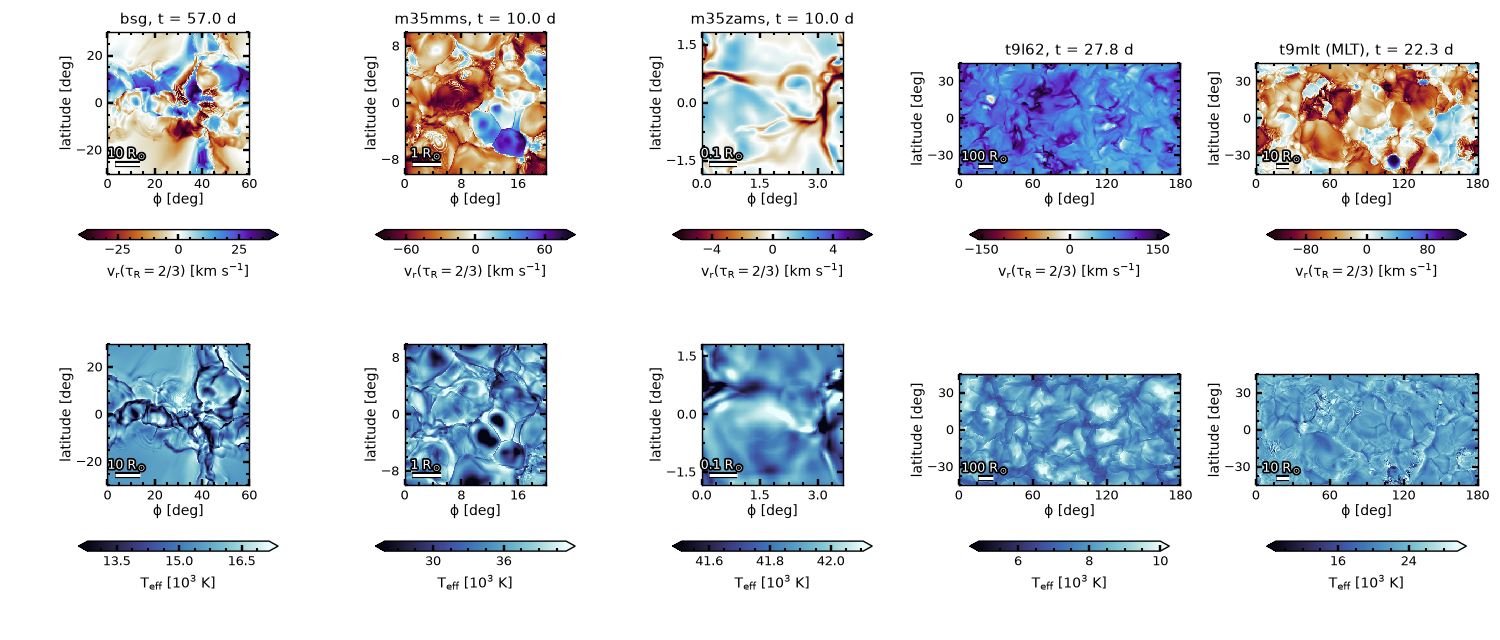
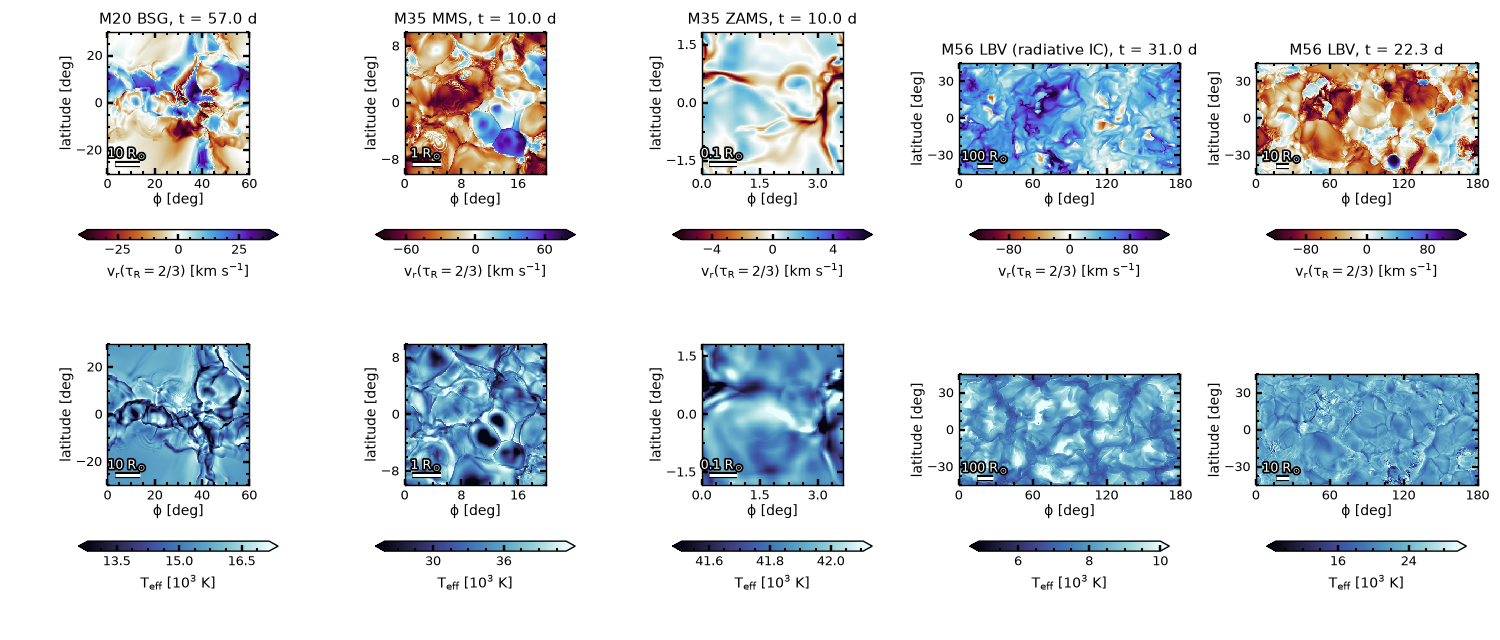
DOCFIG: M56 LBV (radiative IC) final dump (t9l62 finished), new star names in the strip and CAPTIONS (orion 27p/27q)

diff --git a/docs/handover/caltech_results/DOCFIG/mov3d/w3d.py b/docs/handover/caltech_results/DOCFIG/mov3d/w3d.py
@@ -12,16 +12,16 @@ sys.path.insert(0, G + '/rsgE_page/vispy_4de8168d'); import bin_convert as bc; r
 from matplotlib.colors import ListedColormap
 ICE, FUS = (ListedColormap(np.load(D0 + '/lut_%s.npy' % n)) for n in ('ice', 'fusion'))
 RS, DAY = r3.RSUN, 86400.0
-RUNS = dict(bsg=dict(title='Blue supergiant', hydro=G + '/prod_c1_1124/bsg/bin/bsg3d.hydro_w.%05d.bin', rad='vet', var='vet_f1', grid=G + '/prod_c1_1124/bsg/bsg3d.x1grid.txt',
+RUNS = dict(bsg=dict(title='M20 BSG', hydro=G + '/prod_c1_1124/bsg/bin/bsg3d.hydro_w.%05d.bin', rad='vet', var='vet_f1', grid=G + '/prod_c1_1124/bsg/bsg3d.x1grid.txt',
     table=G + '/fresh_prod_1120/bsg/rosseland_mesakap_gs98_x0.70_z0.008.txt', mu=0.62, gamma=5/3., rin=0.0, rview=56.0, az=30, el=30, zoom=1.17))
 TB2 = G + '/fresh_prod_1120/tables/rosseland_mesakap_gs98_x0.70_z0.02.txt'
 def _c(title, d, pre, mu, rin, rview, **k):
     q = dict(title=title, hydro=G + '/' + d + '/bin/' + pre + '.hydro_w.%05d.bin', rad='vet', var='vet_f1', grid=G + '/' + d + '/' + pre + '.x1grid.txt', table=TB2, mu=mu, gamma=5/3., rin=rin, rview=rview, az=30, el=30, zoom=1.0, fit=True, last=None, te=None); q.update(k); return q
 RUNS['bsg'].update(last=114, te=None)
-RUNS['m35mms'] = _c('M35MMS', 'prod_c1_1124/m35mms', 'm35mms', 0.6215, 0.86*9.554e11/6.957e10, 14.2, last=480, note='frames interpolated')
-RUNS['m35zams'] = _c('M35ZAMS', 'prod_c1_1124/m35zams', 'm35zams', 0.6220, 0.93*5.4972e11/6.957e10, 8.0, last=480, note='frames interpolated')
-RUNS['t9l62'] = _c('T9L6.2', 'prod_c4_1124/t9l62', 't9l62', 0.674, 0.42*6.5326e12/6.957e10, 560.0, last=223, te=[4.9, 10.0], amb=0.80, dif=0.30, spec=0.0)
-RUNS['t9mlt'] = _c('T9 with adaptive MLT', 'prod_mlt_1125/t9mlt', 't9l62', 0.674, 0.62*3.9282e12/6.957e10, 64.0, last=178, te=[9.0, 29.5], amb=0.80, dif=0.30, spec=0.0)
+RUNS['m35mms'] = _c('M35 MMS', 'prod_c1_1124/m35mms', 'm35mms', 0.6215, 0.86*9.554e11/6.957e10, 14.2, last=480, note='frames interpolated')
+RUNS['m35zams'] = _c('M35 ZAMS', 'prod_c1_1124/m35zams', 'm35zams', 0.6220, 0.93*5.4972e11/6.957e10, 8.0, last=480, note='frames interpolated')
+RUNS['t9l62'] = _c('M56 LBV (radiative IC)', 'prod_c4_1124/t9l62', 't9l62', 0.674, 0.42*6.5326e12/6.957e10, 560.0, last=249, te=[4.9, 10.0], amb=0.80, dif=0.30, spec=0.0)
+RUNS['t9mlt'] = _c('M56 LBV', 'prod_mlt_1125/t9mlt', 't9l62', 0.674, 0.62*3.9282e12/6.957e10, 64.0, last=178, te=[9.0, 29.5], amb=0.80, dif=0.30, spec=0.0)
 def lastdump(s):                                               # newest dump complete for > 10 min (the run may still be writing)
     c = RUNS[s]
     if c['last'] is not None: return c['last']
@@ -41,10 +41,10 @@ def addbar(pv, pl, D, c, caps):
     cam = pl.camera; ep, fwd, rt, uu = basis(cam); th = np.tan(np.radians(cam.view_angle)/2); asp = SIZE[0]/SIZE[1]; wc = np.array(cam.GetWindowCenter()); Q = []
     for k0, k1, j0, j1 in caps:                                # depth of the point of the shown photosphere (radius rref, fixed over the movie) nearest to the camera
         PH, TH = np.meshgrid(D['phf'][k0:k1+1], D['thf'][j0:j1+1], indexing='ij'); Q.append((r3.sph(np.full(PH.shape, c['rref']), TH, PH).reshape(-1, 3)-ep)@fwd)
-    dep = float(np.concatenate(Q).min()); ln = c['bar']/(dep*th*asp)*SIZE[0]/2; _m, py0 = json.load(open(D0 + '/barpos.json'))[c['key']]; px0 = _m-ln/2; X = (2*px0/SIZE[0]-1+wc[0])*th*asp*dep; Y = (2*py0/SIZE[1]-1+wc[1])*th*dep; P0 = ep+fwd*dep+rt*X+uu*Y; P1 = P0+rt*c['bar']
+    dep = float(np.concatenate(Q).min()); ln = c['bar']/(dep*th*asp)*SIZE[0]/2; _m, py0 = json.load(open(D0 + '/barpos.json'))[c['key']]; _m += 163.0 if os.environ.get('HERO') else 0.0; px0 = _m-ln/2; X = (2*px0/SIZE[0]-1+wc[0])*th*asp*dep; Y = (2*py0/SIZE[1]-1+wc[1])*th*dep; P0 = ep+fwd*dep+rt*X+uu*Y; P1 = P0+rt*c['bar']
     ln = c['bar']/(dep*th*asp)*SIZE[0]/2
     for a, b in ((P0, P1),) + tuple((p-uu*8*dep*th*2/SIZE[1], p+uu*8*dep*th*2/SIZE[1]) for p in (P0, P1)): pl.add_mesh(pv.Line(a, b), color='white', line_width=5, lighting=False)
-    lb = pl.add_text('%g R_sun' % c['bar'], position=(int(round(px0+ln/2)), int(py0+14)), font_size=15, color='white'); lb.prop.SetJustificationToCentered(); pl.renderer.ResetCameraClippingRange()
+    lb = pl.add_text('%g R_sun' % c['bar'], position=(int(round(px0+ln/2)), int(py0+14)), font_size=20 if os.environ.get('HERO') else 15, color='white'); lb.prop.SetJustificationToCentered(); pl.renderer.ResetCameraClippingRange()
     return ln, dep
 def assemble(d, names):                                            # float64 version of render3d.assemble
     lg = np.array(d['mb_logical'])[:, :3]; n3, n2, n1 = d['mb_data'][names[0]][0].shape
@@ -90,12 +90,13 @@ def render(D, c, L, out, variant):
     ca = [pl.add_mesh(r3.cap(pv, D, cfg, *q), scalars='c', cmap=ICE, clim=L['te'], show_scalar_bar=False, ambient=c.get('amb', 0.3), diffuse=c.get('dif', 0.7), specular=c.get('spec', 0.15), specular_power=20) for q in caps]
     if inn: pl.add_mesh(r3.inner(pv, D, *inn), color='#555555', ambient=0.3)
     sb = dict(color='white', title_font_size=34, label_font_size=30, n_labels=3, fmt='%.3g', unconstrained_font_size=True)
-    pl.add_scalar_bar('radial velocity (km/s)', mapper=fa[0].mapper, vertical=False, position_x=0.30, position_y=0.03, width=0.36, height=0.08, **sb)
-    pl.add_scalar_bar('T_eff (kK)', mapper=ca[0].mapper, vertical=True, position_x=0.72, position_y=0.22, width=0.05, height=0.62, **sb)
+    if not os.environ.get('HERO'): pl.add_scalar_bar('radial velocity (km/s)', mapper=fa[0].mapper, vertical=False, position_x=0.30, position_y=0.03, width=0.36, height=0.08, **sb)
+    if not os.environ.get('HERO'): pl.add_scalar_bar('T_eff (kK)', mapper=ca[0].mapper, vertical=True, position_x=0.72, position_y=0.22, width=0.05, height=0.62, **sb)
     
-    if c.get('note'): pl.add_text(c['note'], position=(40, 40), font_size=13, color='white')
-    tt = pl.add_text('%s\nt = %.2f d     median R_ph = %s R_sun' % (c['title'], D['t']/DAY, ('%.2f' if c['rview'] < 20 else '%.0f') % np.median(D['rph']/RS)), position=(960, 1040), font_size=15, color='white')
-    tt.prop.SetJustificationToCentered(); tt.prop.SetVerticalJustificationToTop()
+    if c.get('note') and not os.environ.get('HERO'): pl.add_text(c['note'], position=(40, 40), font_size=13, color='white')
+    if os.environ.get('HERO'): pl.add_text('t = %.1f d' % (D['t']/DAY), position=(36, 1080-70), font_size=20, color='white')
+    tt = None if os.environ.get('HERO') else pl.add_text('%s\nt = %.2f d     median R_ph = %s R_sun' % (c['title'], D['t']/DAY, ('%.2f' if c['rview'] < 20 else '%.0f') % np.median(D['rph']/RS)), position=(960, 1040), font_size=15, color='white')
+    if tt is not None: tt.prop.SetJustificationToCentered(); tt.prop.SetVerticalJustificationToTop()
     phc = 0.5*(D['phf'][0]+D['phf'][-1]); d0 = np.array([np.cos(phc), np.sin(phc), 0.]); up = np.array([0., 0., 1.]); side = np.cross(up, d0); az, el = np.radians(c['az']), np.radians(c['el']); eye = (d0*np.cos(az)+side*np.sin(az))*np.cos(el)+up*np.sin(el)
     TH, PH = np.meshgrid(np.linspace(D['thf'][0], D['thf'][-1], 9), np.linspace(D['phf'][0], D['phf'][-1], 9)); box = np.concatenate([r3.sph(np.full(TH.shape, rr), TH, PH).reshape(-1, 3) for rr in (D['rf'][0]/RS, c['rview'])]); foc = 0.5*(box.min(0)+box.max(0)); ext = np.linalg.norm(box.max(0)-box.min(0))
     pl.camera.position = tuple(foc+eye*ext*2); pl.camera.focal_point = tuple(foc); pl.camera.up = (0, 0, 1); pl.camera.view_angle = 30
@@ -105,7 +106,7 @@ def render(D, c, L, out, variant):
         ep = foc+eye*ext*3.0; fwd = -eye; rt = np.cross(fwd, up); rt /= np.linalg.norm(rt); uu = np.cross(rt, fwd); q = box-ep; dep = q@fwd; X, Y = (q@rt)/dep, (q@uu)/dep; asp = SIZE[0]/SIZE[1]
         th = max((Y.max()-Y.min())/2/c.get('fh', 0.72), (X.max()-X.min())/2/(c.get('fw', 0.62)*asp)); va = 2*np.degrees(np.arctan(th)); cx, cy = (X.max()+X.min())/2/(th*asp), (Y.max()+Y.min())/2/th
         pl.camera.position = tuple(ep); pl.camera.focal_point = tuple(ep+fwd); pl.camera.up = (0, 0, 1); pl.camera.view_angle = va; pl.reset_camera_clipping_range(); pl.camera.SetWindowCenter(cx-c.get('tx', -0.06), cy-c.get('ty', 0.03)); lead = 1
-    if lead is None: pl.reset_camera(bounds=(box[:, 0].min(), box[:, 0].max(), box[:, 1].min(), box[:, 1].max(), box[:, 2].min(), box[:, 2].max())); pl.camera.zoom(c['zoom']); pl.camera.SetWindowCenter(0.0, 0.06)
+    if lead is None: pl.reset_camera(bounds=(box[:, 0].min(), box[:, 0].max(), box[:, 1].min(), box[:, 1].max(), box[:, 2].min(), box[:, 2].max())); pl.camera.zoom(c['zoom']); pl.camera.SetWindowCenter(-0.085 if os.environ.get('HERO') else 0.0, 0.06)
     ln, dep = addbar(pv, pl, D, c, caps)
     if os.environ.get('CHK'):                                  # check data: projected outline of the true cap mesh (pixel box) and the bar length
         Q = []
@@ -123,7 +124,7 @@ def limits(s, D):
             m = np.arange(D[k].shape[1])[None, :] <= i[:, None]; vis.append(np.abs(D[k][m]))
     return dict(te=[float(x) for x in np.percentile(te, [1, 99])], vr=float(np.percentile(np.concatenate(vis), 99)), Fle0=float(np.mean(D['Fph'] <= 0)))
 def work(a):
-    s, n, L, v, tag = a; t0 = time.time(); D = reduce(s, n); t1 = time.time(); f = D0 + '/frames/%s%s_%05d.png' % (s, tag, n); render(D, RUNS[s], L, f, v); t2 = time.time(); print('frame %s %05d t=%.2f d reduce %.1f s render %.1f s R_ph med %.2f F<=0 %.1e' % (s, n, D['t']/DAY, t1-t0, t2-t1, np.median(D['rph'])/RS, np.mean(D['Fph'] <= 0)), flush=True)
+    s, n, L, v, tag = a; t0 = time.time(); D = reduce(s, n); t1 = time.time(); f = D0 + ('/hero/' if os.environ.get('HERO') else '/frames/') + '%s%s_%05d.png' % (s, tag, n); render(D, RUNS[s], L, f, v); t2 = time.time(); print('frame %s %05d t=%.2f d reduce %.1f s render %.1f s R_ph med %.2f F<=0 %.1e' % (s, n, D['t']/DAY, t1-t0, t2-t1, np.median(D['rph'])/RS, np.mean(D['Fph'] <= 0)), flush=True)
 def redw(q):
     t0 = time.time(); D = reduce(*q); print('red', q, '%.1f s' % (time.time()-t0), 'R_ph med %.2f p99.9 %.2f' % (np.median(D['rph'])/RS, np.percentile(D['rph'], 99.9)/RS), flush=True)
 if __name__ == '__main__':

diff --git a/docs/handover/caltech_results/DOCFIG/docfig.py b/docs/handover/caltech_results/DOCFIG/docfig.py
@@ -81,7 +81,7 @@ def fr1(a):
     s, f, i, L, D = a; fn = D + '/f_%05d.png' % i
     if not os.path.exists(fn): draw(s, load(s, f), L, fn)
 def strip():
-    S = ['bsg', 'm35mms', 'm35zams', 't9l62', 't9mlt']; N = dict(bsg='bsg', m35mms='m35mms', m35zams='m35zams', t9l62='t9l62', t9mlt='t9mlt (MLT)')
+    S = ['bsg', 'm35mms', 'm35zams', 't9l62', 't9mlt']; N = dict(bsg='M20 BSG', m35mms='M35 MMS', m35zams='M35 ZAMS', t9l62='M56 LBV (radiative IC)', t9mlt='M56 LBV')
     fig, ax = plt.subplots(2, 5, figsize=(15, 6.4)); fig.subplots_adjust(left=0.045, right=0.985, top=0.95, bottom=0.10, wspace=0.34, hspace=0.34)
     for j, s in enumerate(S):
         d = load(s, files(s)[-1]); L = lims(s, [len(files(s)) - 1])
